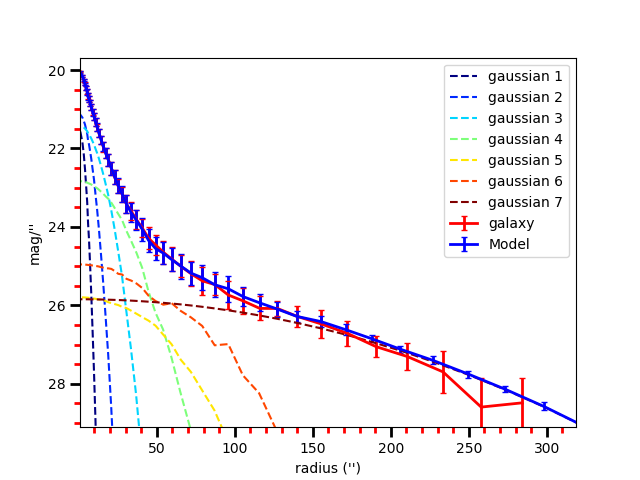
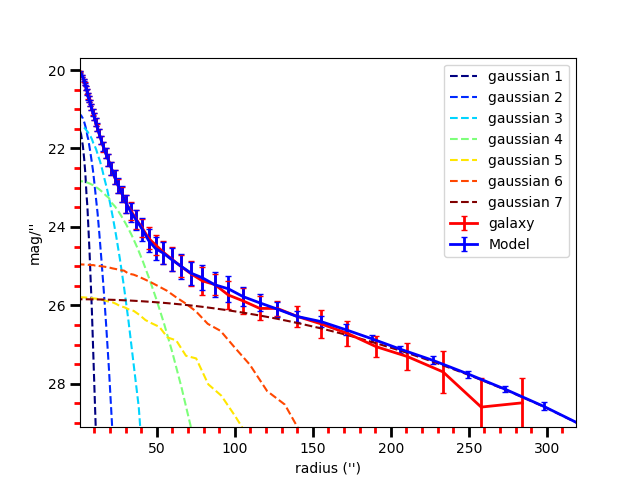
manual updated
Changes to be committed:
	modified:   EllipSectGalfit.py
	modified:   docs/Ellipse.md
	modified:   img/A85.mul.sub.png
	modified:   img/A85.sub.png

diff --git a/EllipSectGalfit.py b/EllipSectGalfit.py
@@ -357,6 +357,7 @@ def main():
 
     
     if params.flagcomp:
+        #change to minlevel =0 ?
         sectcomps=SectPhotComp(galpar, params, galcomps, n_sectors=numsectors, minlevel=minlevel)
 
 
@@ -1474,7 +1475,7 @@ def MulEllipSectors(params, galpar, galcomps, sectgalax, sectmodel, sectcomps):
 
                 diffangle =  sectorsub[ii][jj] - alpha2
 
-                print("hola C{}: Axrat: {:.3f}, alpha: {:.3f} angsec: {:.3f} ; theta2: {:.3f} sector {:.3f}; alpha2 {:.3f} ".format(ii,galcomps.AxRat[ii],alpha,angsec,90-galcomps.PosAng[ii],sectorsub[ii][jj],alpha2))
+                #print("Check C{}: Axrat: {:.3f}, alpha: {:.3f} angsec: {:.3f} ; theta2: {:.3f} sector {:.3f}; alpha2 {:.3f} ".format(ii,galcomps.AxRat[ii],alpha,angsec,90-galcomps.PosAng[ii],sectorsub[ii][jj],alpha2))
 
 
 

diff --git a/docs/Ellipse.md b/docs/Ellipse.md
@@ -8,9 +8,30 @@ plots for separate angles.
 
 **Code: [EllipSectGalfit.py](../EllipSectGalfit.py)**
 
-This is a "quick" substitute for IRAF's ellipse
-routine. It creates an Surface brightness profile for the galaxy
-and model.
+This is a "quick" substitute for IRAF's ellipse routine. It 
+creates an Surface brightness profile for the galaxy and model.
+
+In addition, *EllipSectGalfit* can compute variables such as Absolute Magnitude, 
+luminosity, Flux, total apparent magnitude, Bulge to Total Ratio, Tidal, Chinu
+in the sectors ellipse, Bumpiness, SNR, AIC, BIC, mean surface brightness,
+percentage of total light per component, radius at 90% of light (Sersic component only), effective radius in kpc, etc.  
+
+## Additional Libraries: mgefit
+
+**Install the mgefit library via pip:**  
+
+```
+pip install mgefit
+```
+
+
+*The easiest way to run the program is:*
+
+```
+ ./EllipSectGalfit.py galfit.01 
+```
+
+## OPTIONS
 
 The options to run the code in the terminal (or ipython) are:
 
@@ -18,22 +39,10 @@ The options to run the code in the terminal (or ipython) are:
  ./EllipSectGalfit.py [GALFITOutputFile] [-logx] [-q AxisRatio] [-pa PositionAngle] [-comp] [-pix] [-ranx/y Value] [-grid] [-dpi Value] [-noplot] [-phot] [-sbout] [-noplot] [-minlevel Value] [-sectors Value] [-object Name] [-filter Name] [-snr] [-help] [-checkimg] [-noned] [-distmod Value] [-magcor Value] [-scalekpc Value][-sbdim Value]
  ```
 
-Examples: 
-
-```
- ./EllipSectGalfit.py galfit.01 -logx
-```
-
-*or* 
-
-```
- ./EllipSectGalfit.py galfit.02 -q 0.35 -pa 60 -comp
-```
-### Input
+### Input File
 
 **GALFITOutputFile**: GALFIT output file  (e.g. galfit.01)
 
-## OPTIONS
 
 **help**: Help menu
 
@@ -46,13 +55,13 @@ from the last component in GALFITOutputFile.
 
 **comp**: plots include the individual model components
 
-**pix**: plots the top of x-axis in pixels
+**pix**: adds pixels units to the top of x-axis.
 
-**ranx**: constant that multiplies the range of the x axis to increase/decrease *or* 
-it can be used as xmin-xmax to change range
+**ranx**: constant that increase/decrease the range of the x axis *or* 
+it can be used as xmin-xmax to change range.
 
-**rany**: constant that multiplies the range of the y axis to increase/decrease it
-*or* it can be used as ymin-ymax to change range.
+**rany**: constant that increase/decrease the range of the y axis *or* 
+it can be used as ymin-ymax to change range.
 
 **noplot**: the code creates images but do not display them.
 
@@ -70,7 +79,7 @@ it can be used as xmin-xmax to change range
 The below options are used only if 'phot' is enabled:
 
 **snr**: Creates a signal to noise image. This is created dividing the galaxy image
-with the one sigma image created by GALFIT
+with the sigma image created by GALFIT
 
 **object**: used for 'phot' to search in NED. For instance, if you are looking
 for photometry data for galaxy m51, then used as "-object m51" the same name 
@@ -79,10 +88,9 @@ that you will used to search in NED.
 **filter**: used for 'phot' to indicate band for NED. If you need galactic correction
 for B  filter then used as "-filter B". Band "R" is the default option.  
 
-
 Any of the following options disabled the connection to NED
 
-**noned**: avoid to connect to NED. No luminosity nor absolute magnitude is computed.
+**noned**: it avoids to connect with NED. No luminosity nor absolute magnitude is computed.
 
 **distmod**: manual input for Distance Modulus.  
 
@@ -95,37 +103,28 @@ Any of the following options disabled the connection to NED
 ### Advanced 
 
 **minlevel**: Parameter given directly to sectors_photometry.
-                It stops when it founds this value. Check sectors_photometry manual 
+              Ellipse radius stops when it founds this value. Check sectors_photometry manual 
 
 **sectors**: parameter given directly to sectors_photometry. Divide ellipse in 'sectors'
                       Check sectors_photometry manual
                      
-**checkimg**: save the images used for sectors_photometry in individual components
+**checkimg**: save the images used in sectors_photometry for individual components
+
 
 ## Notes
 
-* You need to install the mgefit library via pip:  
-
-```
-pip install mgefit
-```
+* EllipSectGalfit uses the mask image (option "*F*" GALFIT) only if this
+    is a **FITS** image. In case your mask is an *ASCII* file, you can convert it to **FITS** using the [xy2fits.py](xy2fits.md) tool.
 
 
-* EllipSectGalfit already uses the mask image (option "*F*" GALFIT) only if this
-    is a **FITS** image. In case your mask is an *ASCII* file, you can convert it to **FITS**
-    using the [xy2fits.py](xy2fits.md) tool.
-
-
-* EllipSectGalfit uses axis ratio (*q*) and position angle (*pa*) to create an "ellipse" *grid* 
-    using the function *sectors_photometry* from the *mgefit* library. Unlike IRAF's Ellipse, 
-    *q* and *pa* are fixed through radius. See the two images below: 
+* EllipSectGalfit uses axis ratio (*q*) and position angle (*pa*) to create an "ellipse" *grid* using the function *sectors_photometry* from the *mgefit* library. Unlike IRAF's Ellipse, *q* and *pa* are fixed through radius. See the two images below: 
 
     ![A85 gal](../img/A85.img.png)
     ![A85 mod](../img/A85.img.mod.png)
 
     For this reason, errors are expected to 
     be greater than those coming from IRAF's ellipse since EllipSectGalfit 
-    averages errors for different isophotes, specially for large radius. While, on the other hand, IRAF's ellipse
+    averages errors for different isophotes. While, on the other hand, IRAF's ellipse
     can change axis ratio and angular position for each isophote. 
     
     This is how mgefit *sectors_photometry* returns the counts data and, unless I write my own code, I can't change that. 
@@ -133,13 +132,15 @@ pip install mgefit
 * Be sure to run this code in the same path that you run GALFIT. 
 
 * Since EllipSectGalfit reads the "*B*" option of galfit.XX file, this
-    must be the last GALFIT fit. 
+    must be the **last** GALFIT fit. 
 
 * The angles shown in the multi-plot are measured from the galaxy's major axis.
-    They are not measured from the Y-axis as it is the case in GALFIT.
+    They are **not** measured from the Y-axis. 
 
 * In order for the program to detect the components, they must share the same 
-    center (x,y).
+    center (x,y). This allows that galfit can use other components such as
+     sersic to be used as masks for nearby GALFIT. EllipSectGalfit already does not 
+     take them into account for the plots.
 
 * For the comp option, It could be some small differences between the angle shown 
     in the top right corner and the one from each component. This is because
@@ -149,62 +150,164 @@ pip install mgefit
 
 ## Examples
 
+* Displays the help menu: 
+    ./EllipSectGalfit.py -help
+
+
+* To manually introduce an axis ratio of 0.35 and position angular of 60 
+    (measured from Y-axis): 
+
+     ./EllipSectGalfit.py galfit.02 -q 0.35 -pa 60 
+
+### plot Examples
+
 See the examples below for an elliptical galaxy that was fitted 
 with 7 gaussians (images for this galaxy are displayed above). 
 
-* Example 1: 
+* Simple plot example: 
     ./EllipSectGalfit.py galfit.46 
 
     ![A85 ](../img/A85.png)
     ![A85 ](../img/A85.mul.png)
 
-* Example 2:
-    ./EllipSectGalfit.py galfit.46 --logx
+* Displays the X-axis as log:
+    ./EllipSectGalfit.py galfit.46 -logx
 
     ![A85 ](../img/A85.log.png)
     ![A85 ](../img/A85.mul.log.png)
 
-* Example 3 (UPDATE THIS): 
-    ./EllipSectGalfit.py galfit.46 --comp
+* Include the individual model components to the plot:  
+    ./EllipSectGalfit.py galfit.46 -comp
     (displays the 7 gaussians)
 
     ![A85 ](../img/A85.sub.png)
     ![A85 ](../img/A85.mul.sub.png)
 
-* Example 4: 
-    ./EllipSectGalfit.py galfit.46 --pix
-    (put pixels marks on top x-axis)
+* Insert pixels units in the top X-axis: 
+    ./EllipSectGalfit.py galfit.46 -pix
 
     ![A85 ](../img/A85.pix.png)
     ![A85 ](../img/A85.mul.pix.png)
 
-* Example 5: 
-    ./EllipSectGalfit.py galfit.46 --ranx 0.5 
-    (range in x-axis is decreased 50%)
+* Range in X-axis is decreased 50%: 
+    ./EllipSectGalfit.py galfit.46 -ranx 0.5 
 
     ![A85 ](../img/A85.ranx1.png)
     ![A85 ](../img/A85.mul.ranx1.png)
 
-* Example 6: 
-    ./EllipSectGalfit.py galfit.46 --rany 2 
-    (range in y-axis doubled)
+* Range in Y-axis is doubled: 
+    ./EllipSectGalfit.py galfit.46 -rany 2 
 
     ![A85 ](../img/A85.rany1.png)
     ![A85 ](../img/A85.mul.rany1.png)
 
-* Example 7: 
-    ./EllipSectGalfit.py galfit.46 --ranx 1-50 
-    (x-axis ranges from 1 to 50)
+* X-axis range vary from 1 to 50Example 7: 
+    ./EllipSectGalfit.py galfit.46 -ranx 1-50 
 
     ![A85 ](../img/A85.ranx2.png)
     ![A85 ](../img/A85.mul.ranx2.png)
 
-* Example 8: 
-    ./EllipSectGalfit.py galfit.46 --grid 
+* Use grid on plot and increase resolution to 300 dots per inch: 
+    ./EllipSectGalfit.py galfit.46 -grid -dpi 300 
 
     ![A85 ](../img/A85.grid.png)
     ![A85 ](../img/A85.mul.grid.png)
 
+* Same as above but popup window does not appear. Plots are 
+    directly saved in directory: 
+ 
+    ./EllipSectGalfit.py galfit.46 -grid -dpi 300 -noplot 
+
+* If the user desires to create their own plots, 'sbout' option
+  will save the surface brightness vs. radius of the galaxy and model
+  in a file:
+   
+    ./EllipSectGalfit.py galfit.46 -sbout
+
+  EllipSectGalfit can also save the surface brightness data for 
+  individual components in separated files:
+
+    ./EllipSectGalfit.py galfit.46 -comp -sbout 
+
+### phot Examples
+
+*   *EllipSectGalfit* can calculate additional info besides the ones 
+    that are already included in the galfit.XX or fit.log files.  
+    Those variables are intended to help the user to have a quick reference 
+    of the model and decide to modify the model or increase the number of components.
+    
+    Such output variables have to be taken with caution and they always have to be verified for the user before to include them in the final paper.
+
+    The output photometry variables include: Absolute Magnitude, luminosity, Flux, total apparent magnitude, Bulge to Total Ratio, Tidal, $\Chi_\nu$ within the sectors ellipse, Bumpiness, Signal to Noise Ratio, Akaike Information Criterion, Bayesian Information Criterion, mean surface brightness, percentage of total light per individual component, radius at 90% of light ( for Sersic components only). 
+    
+    Those variable are stored in a single file when the following command is executed:
+
+    ./EllipSectGalfit.py galfit.46 -phot
+
+
+*   *phot* option looks in NED (NASA/IPAC Extragalactic Database) for 
+    Galactic Extinction, distance modulus, surface brightness dimming, etc. 
+    to compute Absolute Magnitude, luminosity and other variables. To do this,
+    EllipSectGalfit looks for name of the galaxy (as it is searched in NED) 
+    and wavelength band in the header. If that info is not in 
+    the header, the user can introduce the band and object name as
+    it is shown in the next example for galaxy messier 51 in the band B:  
+
+
+    ./EllipSectGalfit.py galfit.14 -phot -object m51 -filter B
+
+*   If the user wants to see a Signal to Noise image of the data, use 
+    the next command:
+
+    ./EllipSectGalfit.py galfit.14 -phot -snr
+
+*   If for some reason the user does not want to connect to NED use 
+    the following option:
+
+    ./EllipSectGalfit.py galfit.14 -phot -noned
+
+    take into account that Luminosity and Absolute magnitud will not be computed
+
+*   EllipSectGalfit allows to introduce manually the NED info. For example, 
+    the next command introduce a distance modulus of 10, galactic extinction 
+    of 0.3, "/kpc of 1.3 and surface brightness dimming of 0.3.  
+
+    ./EllipSectGalfit.py galfit.10 -phot -distmod 10 -magcor 0.3 -scalekpc 1.3 -sbdim .3
+
+    This option avoids to connect with NED. 
+
+    EllipSectGalfit does not correct by K-correction. 
+
+
+### advanced Examples
+
+*    The following options requires that the user has already experienced with 
+     the *sectors_photometry* function of the mge library. 
+
+    minlevel is a parameter that is given directly to *sectors_photometry* 
+    It indicates when the functions stops. For example, the following command
+    tells to *sectors_photomety* that stops when the sky is 0.
+
+    ./EllipSectGalfit.py galfit.14 -minlevel 0
+
+
+    Note: Galfit sky parameter is already removed from image before the call 
+    to *sectors_photometry* 
+
+
+*   sectors option is another parameter that is given directly to *sectors_photometry*.
+    It tells the function in how many sectors it should divide. *sectors_photometry* 
+    use four-fold simmetry.  
+
+    ./EllipSectGalfit.py galfit.14 -sectors 19
+
+*   checkimg will create images used by *sectors_photometry* to check how 
+    this function was used on the individual model components. The images 
+    names will start with 'C' followed by the component number. 
+    
+    Use it with the 'comp' option:  
+
+    ./EllipSectGalfit.py galfit.14 -comp -checkimg
 
 **EllipSectGalfit.py** uses the mgefit library which is
 described in Cappellari, MNRAS, 333, 400 (2002).
